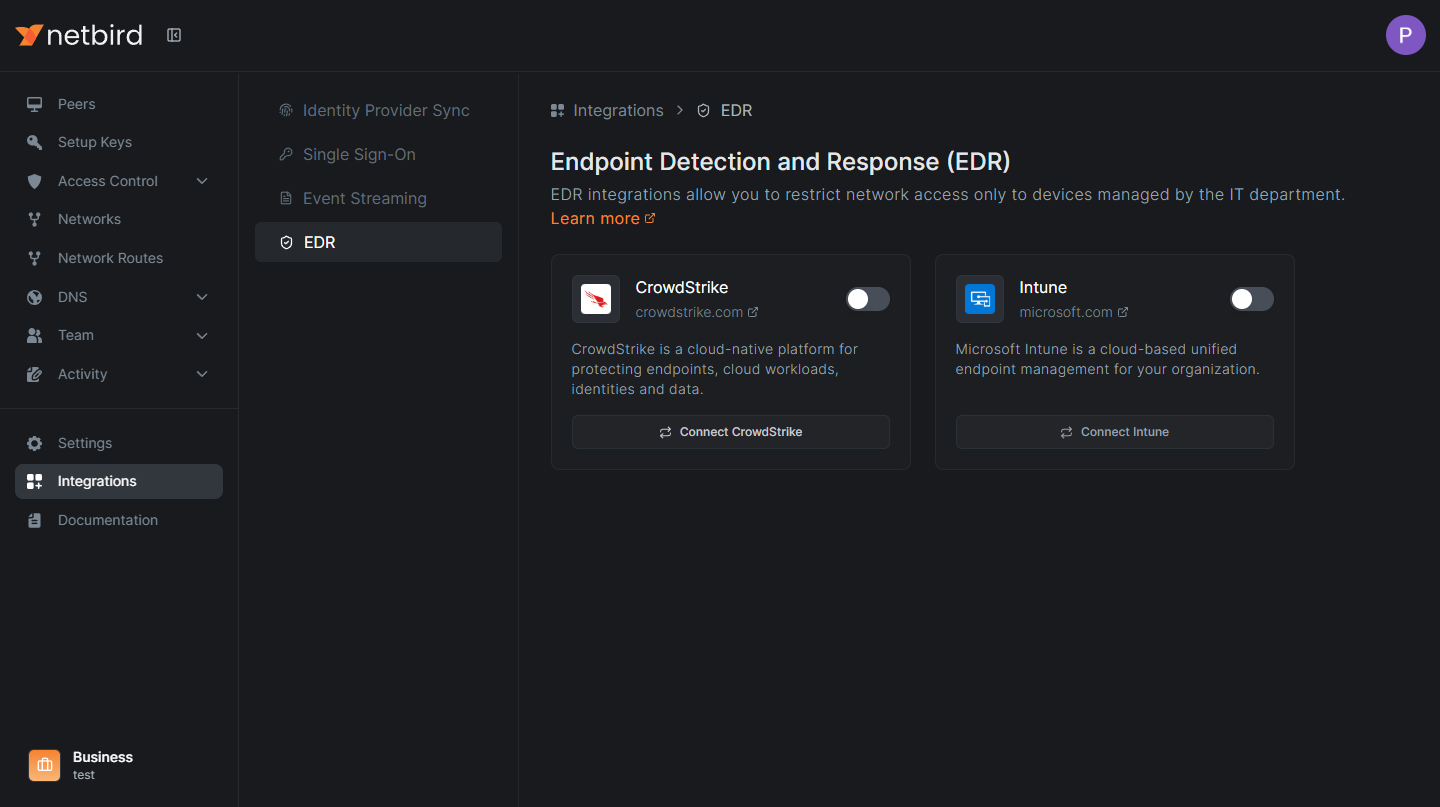
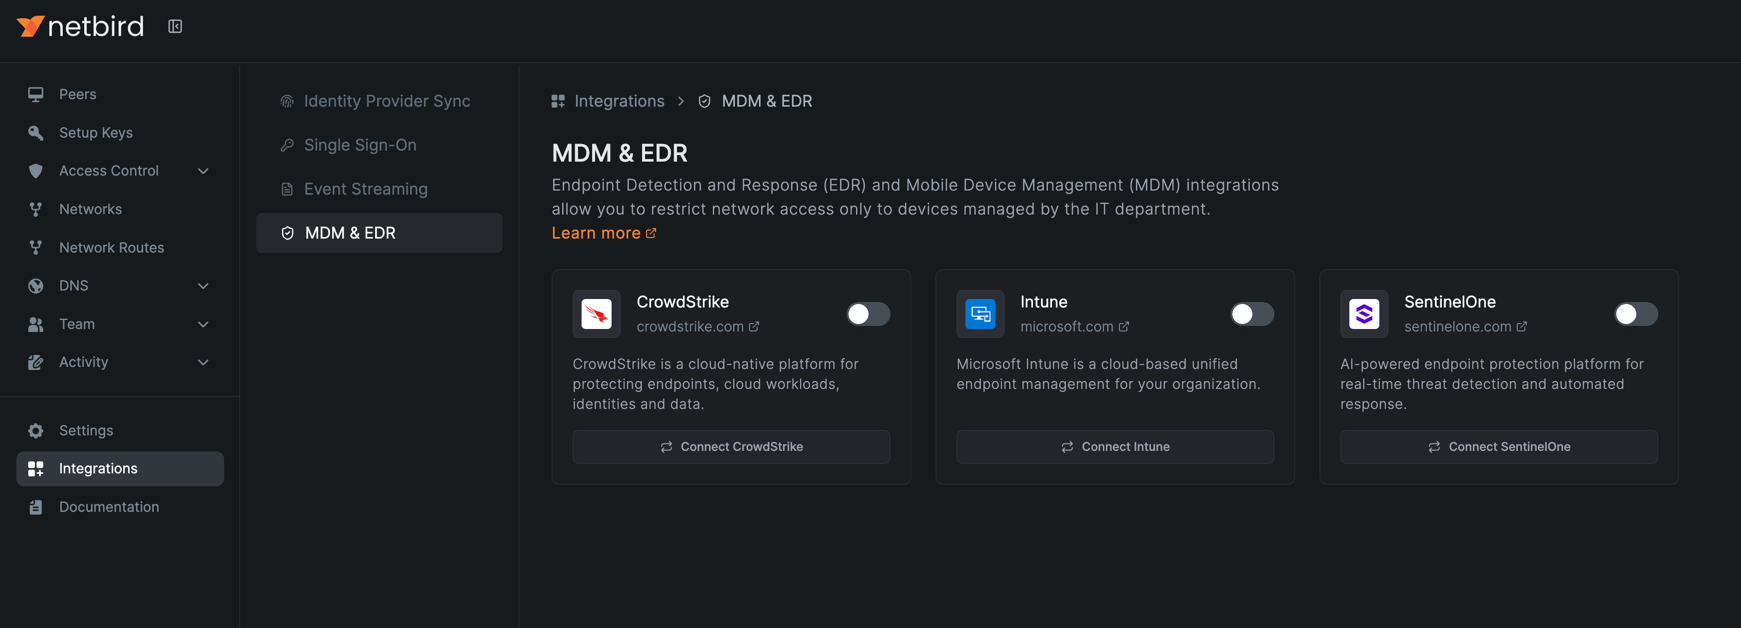
Add SentinelOne EDR (#422)
* Add SentinelOne Singularity integration guide and update navigation

* update steps

* wip: refactor doc

* refactor

* fix grammar

* refactor

---------

diff --git a/src/components/NavigationDocs.jsx b/src/components/NavigationDocs.jsx
@@ -111,6 +111,7 @@ export const docsNavigation = [
                      links: [
                          { title: 'CrowdStrike Falcon', href: '/how-to/crowdstrike-edr' },
                          { title: 'Microsoft Intune', href: '/how-to/intune-mdm' },
+                         { title: 'SentinelOne Singularity', href: '/how-to/sentinelone-edr' },
                      ]
                  },
 
